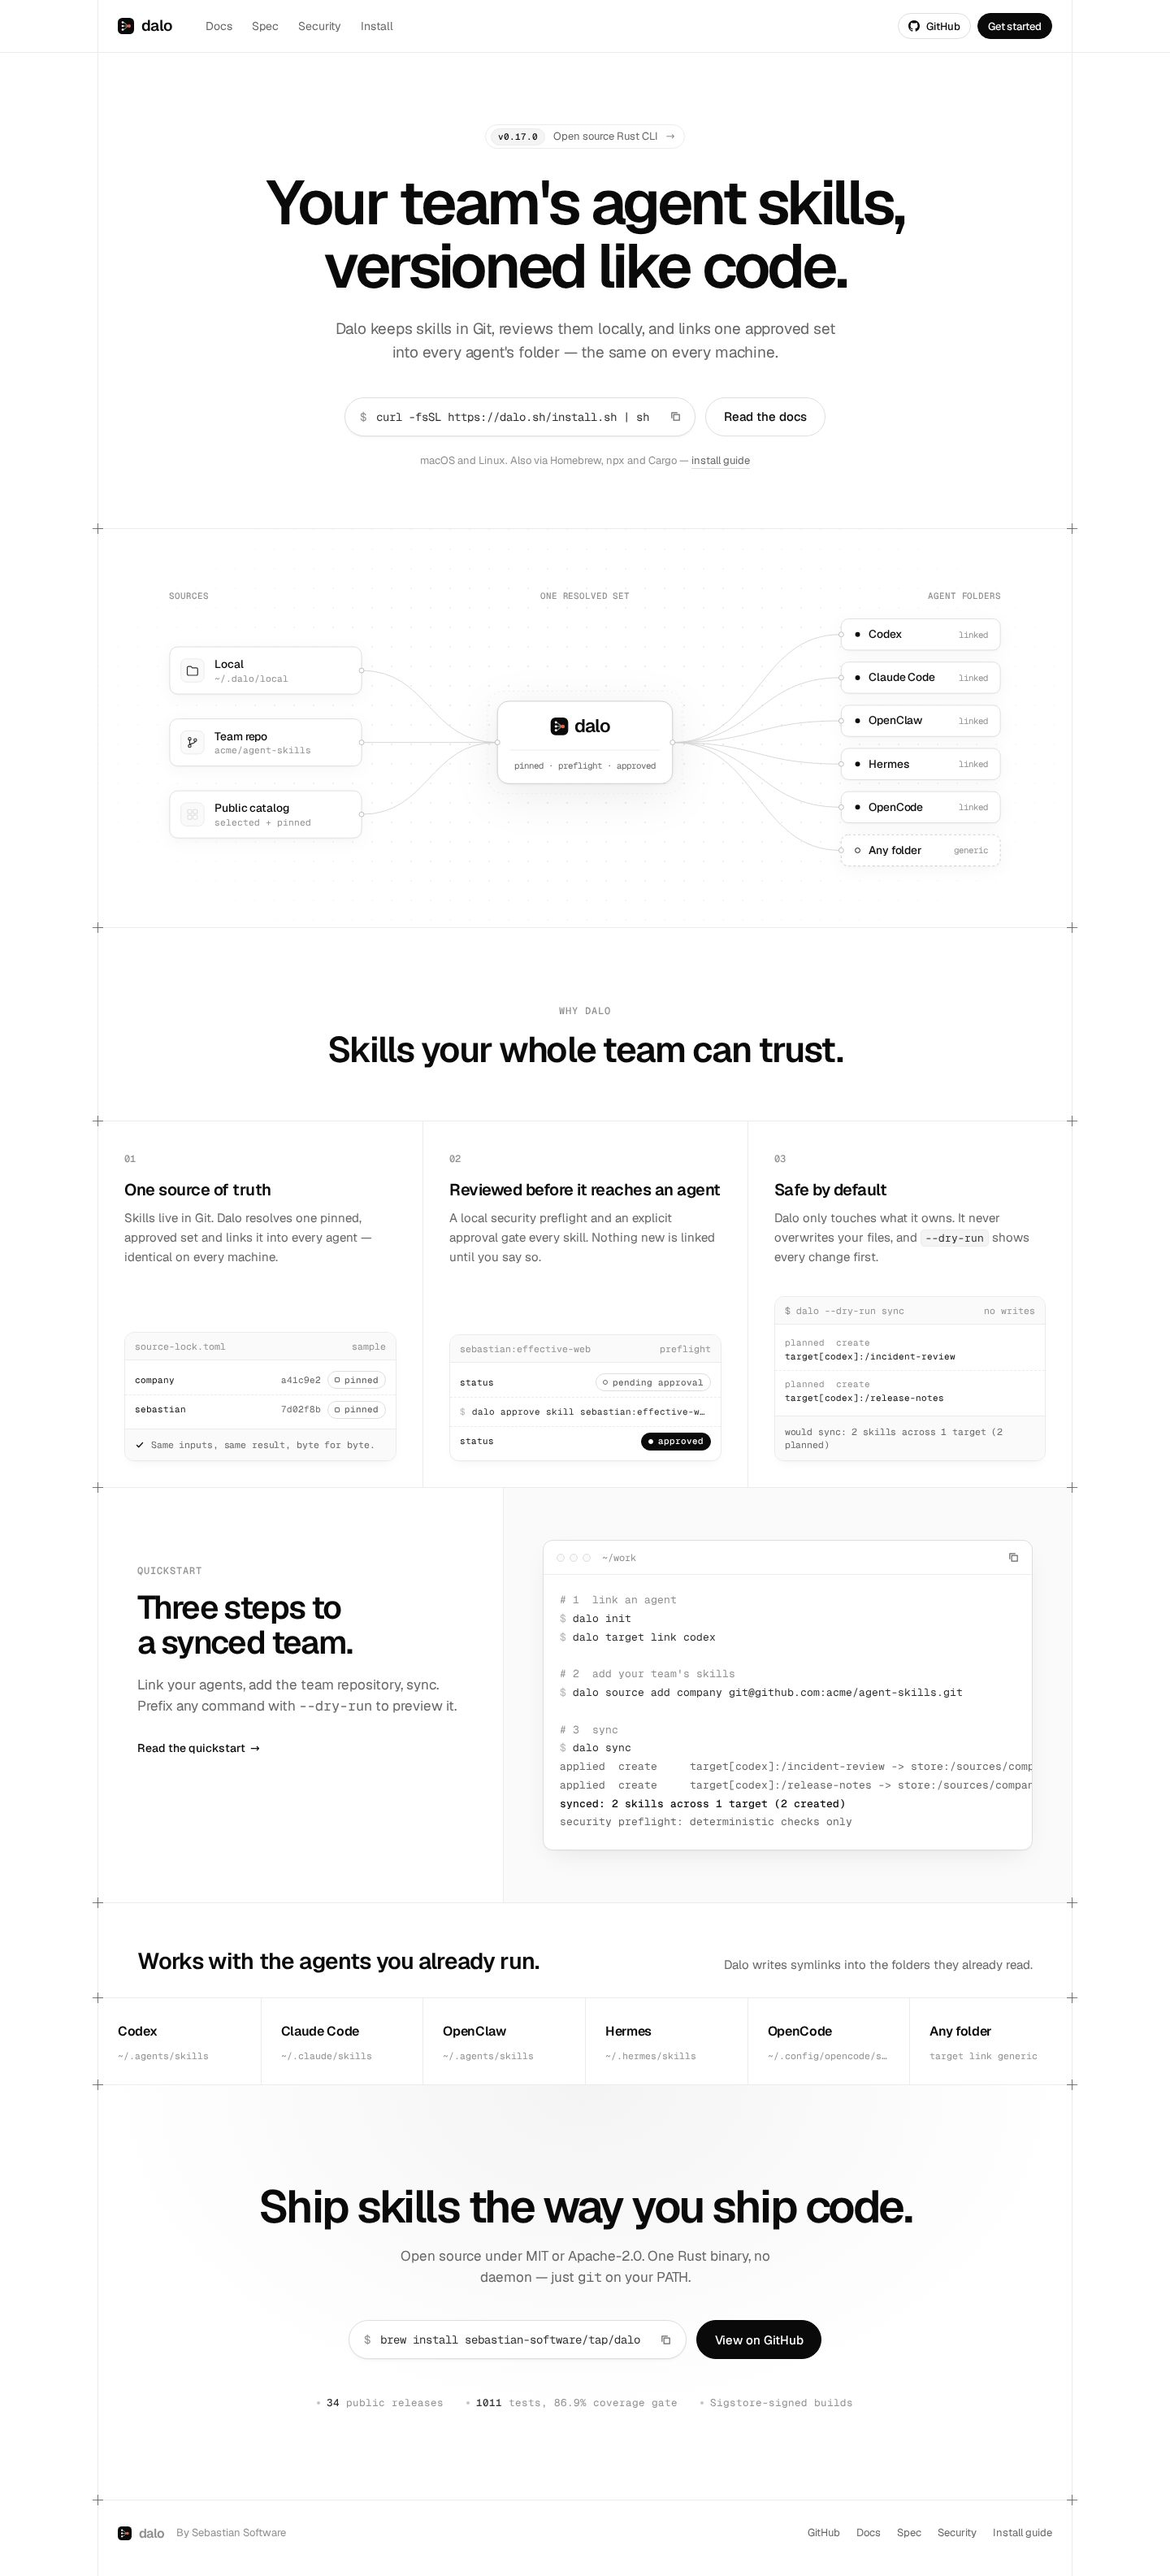
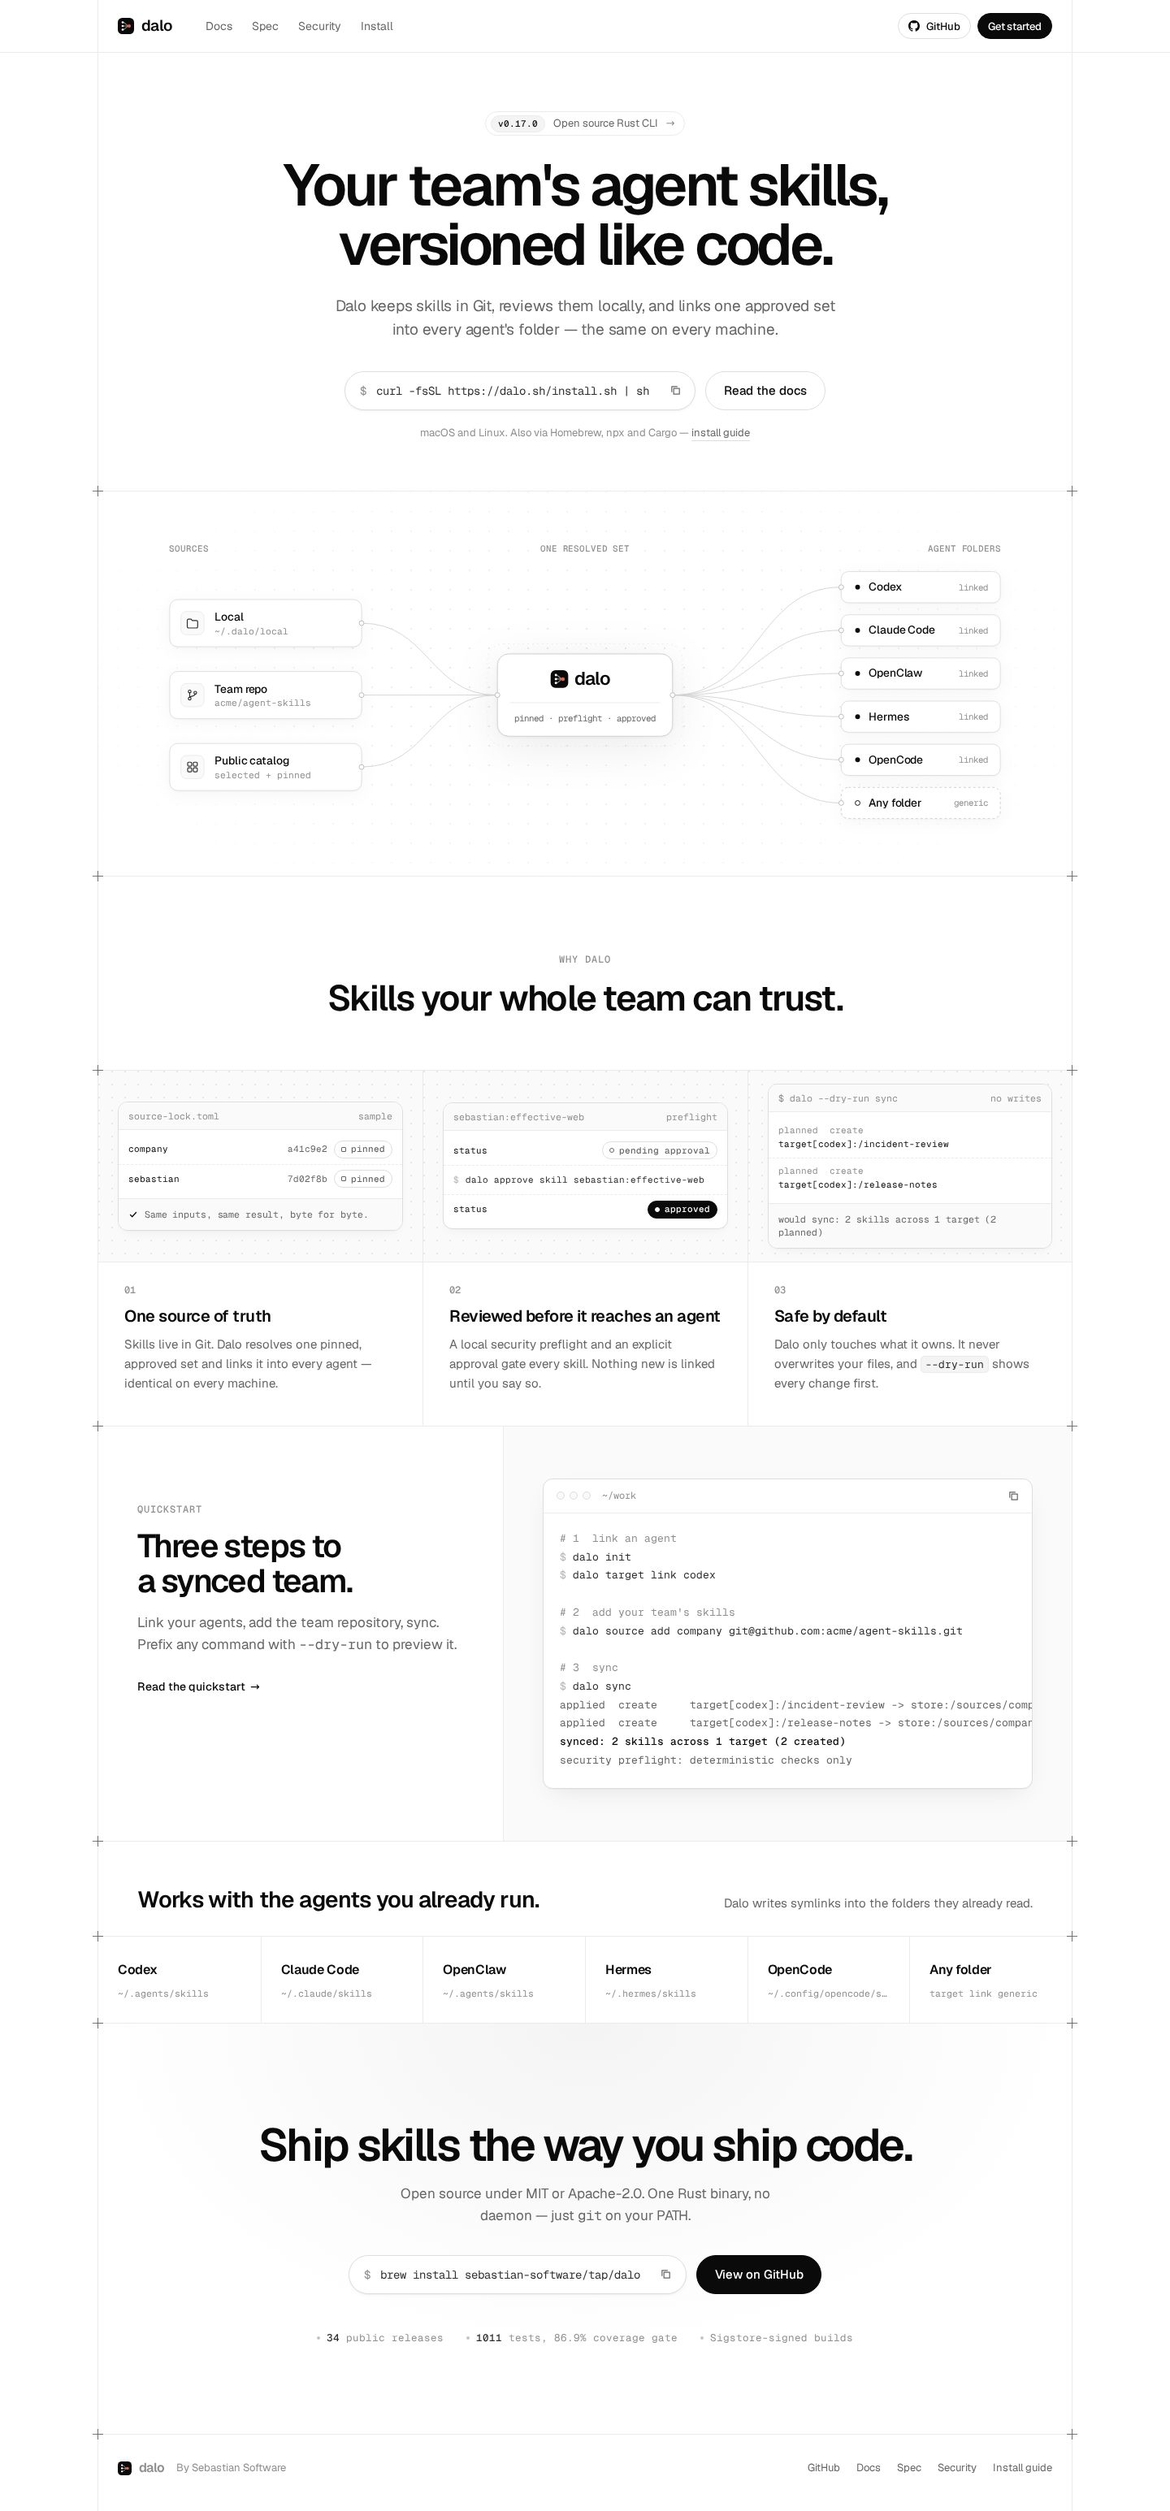
docs(design): snapshot in-progress monochrome and flow concepts
Claude-Session: https://claude.ai/code/session_01LLzwYXJYwYFRLz2bkiv4nZ

diff --git a/design/homepage-concepts/01-monochrome/index.html b/design/homepage-concepts/01-monochrome/index.html
@@ -151,7 +151,7 @@ h1 {
 .flow .node rect { fill: #fff; stroke: var(--line-2); }
 .flow .node { filter: drop-shadow(0 1px 1px rgba(0,0,0,.03)) drop-shadow(0 4px 10px rgba(0,0,0,.035)); }
 .flow .node .ib { fill: var(--fill); stroke: var(--line); }
-.flow .ic { fill: none; stroke: var(--ink-2); stroke-width: 1.2; stroke-linecap: round; stroke-linejoin: round; }
+.flow .ic, .flow .node .ic rect { fill: none; stroke: var(--ink-2); stroke-width: 1.2; stroke-linecap: round; stroke-linejoin: round; }
 .flow .t { font-size: 14px; font-weight: 500; letter-spacing: -.01em; }
 .flow .s { font: 400 11.5px var(--mono); fill: var(--faint); }
 .flow .s.r { text-anchor: end; font-size: 11px; }
@@ -187,14 +187,21 @@ h2 { margin: 0; font-size: clamp(32px, 3.6vw, 44px); line-height: 1.08; font-wei
 
 /* ── Core grid ─────────────────────────────────────── */
 .grid3 { display: grid; grid-template-columns: repeat(3, 1fr); }
-.cell { padding: 40px 32px 32px; display: flex; flex-direction: column; min-width: 0; }
+.cell { display: flex; flex-direction: column; min-width: 0; }
+.vstage {
+  display: flex; align-items: center; justify-content: center; height: 248px; padding: 0 20px;
+  border-bottom: 1px solid var(--line);
+  background: radial-gradient(circle at 1px 1px, #e6e6e6 1px, transparent 1.2px) 0 0 / 16px 16px, var(--fill);
+}
+.vstage .vig { width: 100%; }
+.ctext { padding: 28px 32px 40px; }
 .cell + .cell { border-left: 1px solid var(--line); }
-.cell .n { font: 500 12px/1 var(--mono); color: var(--faint); margin-bottom: 20px; }
+.cell .n { display: block; font: 500 12px/1 var(--mono); color: var(--faint); margin-bottom: 14px; }
 .cell h3 { margin: 0; font-size: 20px; line-height: 1.25; font-weight: 600; letter-spacing: -.025em; }
-.cell p { margin: 10px 0 36px; font-size: 15px; line-height: 1.6; color: var(--muted); text-wrap: pretty; }
+.cell p { margin: 10px 0 0; font-size: 15px; line-height: 1.6; color: var(--muted); text-wrap: pretty; }
 .cell p code { font-size: 13px; color: var(--ink-2); background: var(--fill-2); border: 1px solid var(--line); border-radius: 5px; padding: 1px 5px; }
 .vig {
-  margin-top: auto; border: 1px solid var(--line); border-radius: 12px; background: #fff; overflow: hidden;
+  border: 1px solid var(--line-2); border-radius: 12px; background: #fff; overflow: hidden;
   box-shadow: 0 1px 1px rgba(0,0,0,.02), 0 6px 16px -8px rgba(0,0,0,.08);
   font: 400 11px/1 var(--mono); color: var(--ink-2);
 }
@@ -214,9 +221,9 @@ h2 { margin: 0; font-size: clamp(32px, 3.6vw, 44px); line-height: 1.08; font-wei
 .tag.solid { background: var(--ink); color: #fff; border-color: var(--ink); }
 .tag.solid::before { background: #fff; border-color: #fff; }
 .tag.pin::before { border-radius: 1px; }
-.vf { display: flex; align-items: center; gap: 8px; padding: 11px 12px; letter-spacing: -.01em; border-top: 1px solid var(--line); background: var(--fill); color: var(--muted); font-size: 11.5px; line-height: 1.4; }
+.vf { display: flex; align-items: center; gap: 8px; padding: 11px 12px; letter-spacing: -.01em; white-space: nowrap; border-top: 1px solid var(--line); background: var(--fill); color: var(--muted); font-size: 10.5px; line-height: 1.4; }
 .vf svg { width: 12px; height: 12px; flex: none; color: var(--ink); }
-.vl.two { flex-direction: column; align-items: flex-start; justify-content: center; gap: 6px; height: 50px; }
+.vl.two { flex-direction: column; align-items: flex-start; justify-content: center; gap: 6px; height: 46px; }
 .vl .st { color: var(--faint); white-space: pre; }
 .vl .pa { color: var(--ink); overflow: hidden; text-overflow: ellipsis; max-width: 100%; }
 
@@ -278,8 +285,8 @@ h2 { margin: 0; font-size: clamp(32px, 3.6vw, 44px); line-height: 1.08; font-wei
   :root { --pad: 32px; }
   .grid3 { grid-template-columns: 1fr; }
   .cell + .cell { border-left: 0; border-top: 1px solid var(--line); }
-  .cell { padding: 40px var(--pad); }
-  .vig { max-width: 440px; }
+  .ctext { padding: 28px var(--pad) 40px; }
+  .vstage .vig { max-width: 420px; }
   .qs { grid-template-columns: 1fr; }
   .qs-copy { border-right: 0; border-bottom: 1px solid var(--line); padding: 80px var(--pad) 48px; }
   .qs-code { padding: 40px var(--pad) 56px; }
@@ -306,10 +313,11 @@ h2 { margin: 0; font-size: clamp(32px, 3.6vw, 44px); line-height: 1.08; font-wei
   .ctas .btn { height: 46px; }
   .stage { padding: 36px 16px 40px; }
   .head { padding: 72px var(--pad) 44px; }
-  .cell { padding: 36px var(--pad) 32px; }
+  .vstage { height: auto; padding: 28px 16px; }
+  .ctext { padding: 24px var(--pad) 36px; }
   .vig { max-width: none; font-size: 10.5px; }
   .vig-h, .vf { font-size: 10.5px; }
-  .vf { text-wrap: balance; }
+  .vf { white-space: normal; text-wrap: balance; }
   .qs-copy { padding: 64px var(--pad) 40px; }
   .qs-code { padding: 28px 12px 36px; }
   .term pre { font-size: 12px; padding: 16px; }
@@ -484,42 +492,54 @@ h2 { margin: 0; font-size: clamp(32px, 3.6vw, 44px); line-height: 1.08; font-wei
     <div class="row grid3">
       <span class="plus l"></span><span class="plus r"></span>
       <article class="cell">
-        <span class="n">01</span>
-        <h3>One source of truth</h3>
-        <p>Skills live in Git. Dalo resolves one pinned, approved set and links it into every agent — identical on every machine.</p>
-        <div class="vig" aria-hidden="true">
-          <div class="vig-h"><span>source-lock.toml</span><span>sample</span></div>
-          <div class="vig-b">
-            <div class="vl"><span class="k">company</span><span class="sp"></span><span class="h">a41c9e2</span><span class="tag pin">pinned</span></div>
-            <div class="vl"><span class="k">sebastian</span><span class="sp"></span><span class="h">7d02f8b</span><span class="tag pin">pinned</span></div>
+        <div class="vstage">
+          <div class="vig" aria-hidden="true">
+            <div class="vig-h"><span>source-lock.toml</span><span>sample</span></div>
+            <div class="vig-b">
+              <div class="vl"><span class="k">company</span><span class="sp"></span><span class="h">a41c9e2</span><span class="tag pin">pinned</span></div>
+              <div class="vl"><span class="k">sebastian</span><span class="sp"></span><span class="h">7d02f8b</span><span class="tag pin">pinned</span></div>
+            </div>
+            <div class="vf"><svg viewBox="0 0 12 12"><path fill="none" stroke="currentColor" stroke-width="1.3" stroke-linecap="round" stroke-linejoin="round" d="m2.5 6.5 2.2 2.2L9.5 3.5"/></svg>Same inputs, same result, byte for byte.</div>
           </div>
-          <div class="vf"><svg viewBox="0 0 12 12"><path fill="none" stroke="currentColor" stroke-width="1.3" stroke-linecap="round" stroke-linejoin="round" d="m2.5 6.5 2.2 2.2L9.5 3.5"/></svg>Same inputs, same result, byte for byte.</div>
+        </div>
+        <div class="ctext">
+          <span class="n">01</span>
+          <h3>One source of truth</h3>
+          <p>Skills live in Git. Dalo resolves one pinned, approved set and links it into every agent — identical on every machine.</p>
         </div>
       </article>
       <article class="cell">
-        <span class="n">02</span>
-        <h3>Reviewed before it reaches an agent</h3>
-        <p>A local security preflight and an explicit approval gate every skill. Nothing new is linked until you say so.</p>
-        <div class="vig" aria-hidden="true">
-          <div class="vig-h"><span>sebastian:effective-web</span><span>preflight</span></div>
-          <div class="vig-b">
-            <div class="vl"><span class="k">status</span><span class="sp"></span><span class="tag">pending approval</span></div>
-            <div class="vl cmd"><span class="ps">$</span><span class="c">dalo approve skill sebastian:effective-web</span></div>
-            <div class="vl"><span class="k">status</span><span class="sp"></span><span class="tag solid">approved</span></div>
+        <div class="vstage">
+          <div class="vig" aria-hidden="true">
+            <div class="vig-h"><span>sebastian:effective-web</span><span>preflight</span></div>
+            <div class="vig-b">
+              <div class="vl"><span class="k">status</span><span class="sp"></span><span class="tag">pending approval</span></div>
+              <div class="vl cmd"><span class="ps">$</span><span class="c">dalo approve skill sebastian:effective-web</span></div>
+              <div class="vl"><span class="k">status</span><span class="sp"></span><span class="tag solid">approved</span></div>
+            </div>
           </div>
+        </div>
+        <div class="ctext">
+          <span class="n">02</span>
+          <h3>Reviewed before it reaches an agent</h3>
+          <p>A local security preflight and an explicit approval gate every skill. Nothing new is linked until you say so.</p>
         </div>
       </article>
       <article class="cell">
-        <span class="n">03</span>
-        <h3>Safe by default</h3>
-        <p>Dalo only touches what it owns. It never overwrites your files, and <code>--dry-run</code> shows every change first.</p>
-        <div class="vig" aria-hidden="true">
-          <div class="vig-h"><span>$ dalo --dry-run sync</span><span>no writes</span></div>
-          <div class="vig-b">
-            <div class="vl two"><span class="st">planned  create</span><span class="pa">target[codex]:/incident-review</span></div>
-            <div class="vl two"><span class="st">planned  create</span><span class="pa">target[codex]:/release-notes</span></div>
+        <div class="vstage">
+          <div class="vig" aria-hidden="true">
+            <div class="vig-h"><span>$ dalo --dry-run sync</span><span>no writes</span></div>
+            <div class="vig-b">
+              <div class="vl two"><span class="st">planned  create</span><span class="pa">target[codex]:/incident-review</span></div>
+              <div class="vl two"><span class="st">planned  create</span><span class="pa">target[codex]:/release-notes</span></div>
+            </div>
+            <div class="vf">would sync: 2 skills across 1 target (2 planned)</div>
           </div>
-          <div class="vf">would sync: 2 skills across 1 target (2 planned)</div>
+        </div>
+        <div class="ctext">
+          <span class="n">03</span>
+          <h3>Safe by default</h3>
+          <p>Dalo only touches what it owns. It never overwrites your files, and <code>--dry-run</code> shows every change first.</p>
         </div>
       </article>
     </div>
